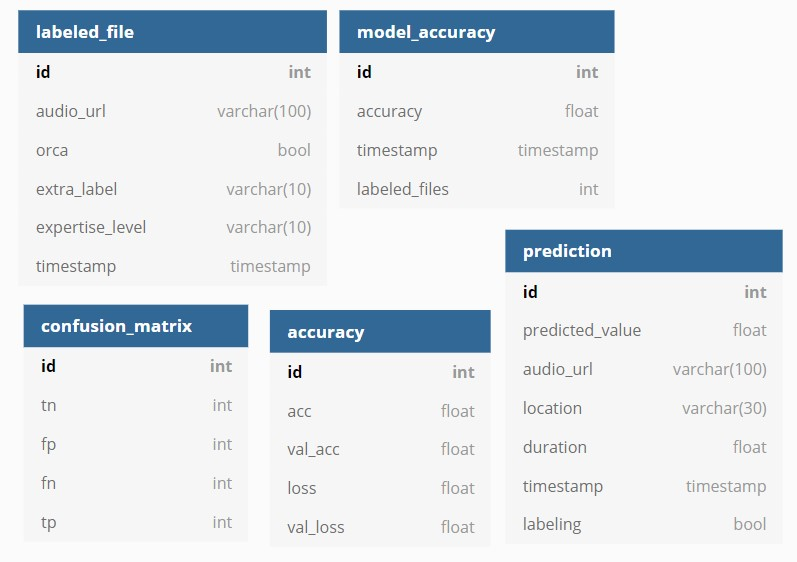
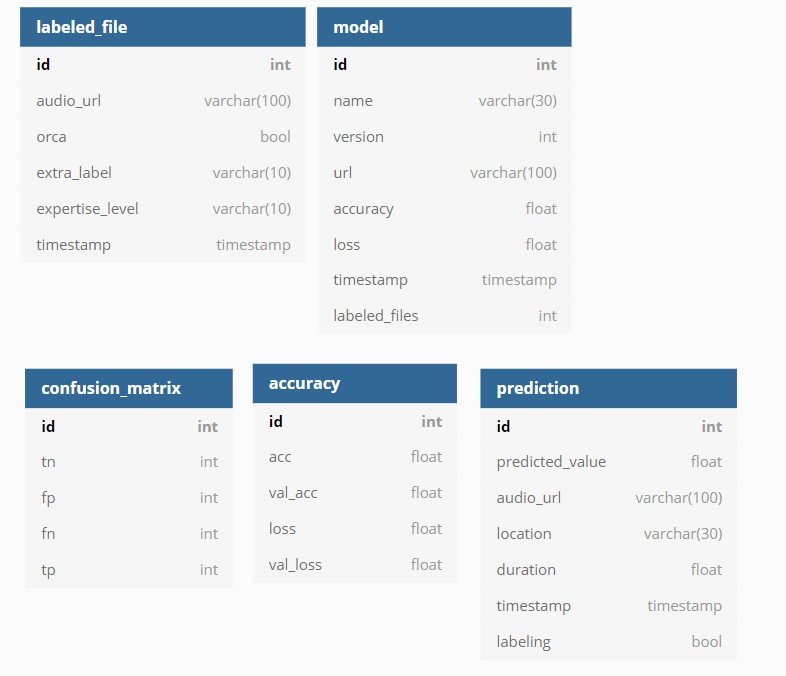
Use s3 without credentials

diff --git a/train_and_predict/train.py b/train_and_predict/train.py
@@ -21,7 +21,7 @@ def train(s3_model_path, s3_labeled_path, img_width, img_height, epochs):
 
     model = load_model(local_model_path)
     # Download data from s3 to `labeled` directory
-    subprocess.run(['aws', 's3', 'sync', s3_labeled_path, local_labeled_path])
+    subprocess.run(['aws', '--no-sign-request', 's3', 'sync', s3_labeled_path, local_labeled_path])
 
     train_data_path = os.path.join(local_labeled_path, 'train')
     validation_data_path = os.path.join(local_labeled_path, 'validation')
@@ -91,6 +91,6 @@ def train(s3_model_path, s3_labeled_path, img_width, img_height, epochs):
     model_loss, model_acc = model.evaluate(validation_generator)
 
     new_s3_model_path = f'{os.path.dirname(s3_model_path)}/{new_model_name}'
-    subprocess.run(['aws', 's3', 'cp', new_model_name, new_s3_model_path])
+    subprocess.run(['aws', '--no-sign-request', 's3', 'cp', new_model_name, new_s3_model_path])
 
     return acc, val_acc, loss, val_loss, cm, train_generator.n, model_acc, model_loss, new_s3_model_path

diff --git a/api/app/active_learning.py b/api/app/active_learning.py
@@ -90,11 +90,11 @@ def update_s3_dir(audio_url, orca, validation):
     validation_path = 'validation' if validation else 'train'
     filename = audio_url.split('/')[-1].split('.')[0]
     subprocess.run([
-        'aws', 's3', 'mv', f'{s3_unlabeled_path}spectrograms/{filename}.png',
+        'aws', '--no-sign-request', 's3', 'mv', f'{s3_unlabeled_path}spectrograms/{filename}.png',
         f'{s3_labeled_path}{validation_path}/{calls_path}/'
     ])
     subprocess.run([
-        'aws', 's3', 'mv', f'{s3_unlabeled_path}mp3/{filename}.mp3',
+        'aws', '--no-sign-request', 's3', 'mv', f'{s3_unlabeled_path}mp3/{filename}.mp3',
         f'{s3_labeled_path}mp3/{calls_path}/'
     ])
     return f'{s3_url}/mp3/{calls_path}/{filename}.mp3'

diff --git a/train_and_predict/predict.py b/train_and_predict/predict.py
@@ -14,12 +14,12 @@ def get_predictions_on_unlabeled(s3_model_path, s3_unlabeled_path, img_width,
 
     local_model_path = os.path.basename(s3_model_path)
     if not os.path.isfile(local_model_path):
-        subprocess.run(['aws', 's3', 'cp', s3_model_path, '.'])
+        subprocess.run(['aws', '--no-sign-request', 's3', 'cp', s3_model_path, '.'])
     model = load_model(local_model_path)
 
     # Download data from s3 to `unlabeled` directory
     subprocess.run([
-        'aws', 's3', 'sync', f'{s3_unlabeled_path}spectrograms/',
+        'aws', '--no-sign-request', 's3', 'sync', f'{s3_unlabeled_path}spectrograms/',
         local_unlabeled_path, '--delete'
     ])
 

diff --git a/api/app/routes.py b/api/app/routes.py
@@ -8,6 +8,11 @@ from .active_learning import update_s3_dir, train_and_predict, session
 import threading
 
 
+@app.route('/')
+def home():
+    return 'Active Learning API is running!'
+
+
 # Get the next 5 predictions with most uncertainty
 @app.route('/uncertainties', methods=['GET'])
 def get_uncertainties():

diff --git a/api/README.md b/api/README.md
@@ -12,8 +12,8 @@
 
 **labeled_file** table:  
 Label for an audio file made by a human annotator. All the labeled files then conform the labeled dataset used by the ML model.  
-**model_accuracy** table:  
-Stores the accuracy of the model after every training round and the number of files used for training.  
+**model** table:  
+Stores data about a model after every training round, as well as the number of files that were used to train it.  
 **confusion_matrix** table:  
 Stores the confusion matrix generated after a retraining using the validation dataset.  
 **accuracy** table:  
@@ -28,9 +28,9 @@ Stores the predicted value of an unlabeled file, alongside with more information
 -   `GET` [/statistics](#get-statistics)
 
 -   ### Get Uncertainties
-    | URL        | Method | Description                                                         |
-    | ---------- | ------ | ------------------------------------------------------------------- |
-    | /filenames | GET    | Get the next 5 audio files, where the ML model had most uncertainty |
+    | URL            | Method | Description                                                            |
+    | -------------- | ------ | ---------------------------------------------------------------------- |
+    | /uncertainties | GET    | Get the next 5 audio files, in which the ML model had most uncertainty |
 
 #### Success Response
 
@@ -83,20 +83,22 @@ label = {
 ```JSON
 {
     "labels": [{"filename": "5", "orca": true, "extraLabel":"K"}],
-    "expertiseLevel": "Beginner"
+    "expertiseLevel": "Beginner",
+    "unlabeled": []
 }
 ```
 
 #### Error Responses
 
-**Code:** `400 BAD REQUEST`  
+**Code:** `500 SERVER ERROR`  
 **Condition:** If fields are missing  
 **Example:**
 
 ```JSON
 {
     "labels": [{"filename": "5", "orca": true}],
-    "expertiseLevel": ""
+    "expertiseLevel": "",
+    "unlabeled": []
 }
 ```
 
@@ -112,9 +114,9 @@ headers: {
 
 -   ### Get Statistics
 
-| URL         | Method | Description                                                                                                                                                                            |
-| ----------- | ------ | -------------------------------------------------------------------------------------------------------------------------------------------------------------------------------------- |
-| /statistics | GET    | Get confusion matrix and list of accuracies of last training round of the ML model, as well as the total number of labeled files over time with the accuracy of the ML model over time |
+| URL         | Method | Description                                                                                                                                                                                 |
+| ----------- | ------ | ------------------------------------------------------------------------------------------------------------------------------------------------------------------------------------------- |
+| /statistics | GET    | Get confusion matrix, and list of losses and accuracies of last training round of the ML model, as well as the accuracies of the ML model vs the number of files used to train it over time |
 
 #### Success Response
 
@@ -146,13 +148,13 @@ headers: {
 
 # Getting Started
 
-This API requires a database and a ML endpoint to run, the easiest way to do that would be run the ML endpoint's docker container by following the [train_and_predict quick method](../train_and_predict/README.md#quick-method), and to start a docker postgres database with the following command: `docker run --name postgres -p 5432:5432 -e POSTGRES_DB=orcagsoc -e POSTGRES_PASSWORD=postgres -d postgres`.
+This API requires a database and a ML endpoint to run, the easiest way to do that would be run the ML endpoint's docker container by following the [train_and_predict quick method](../train_and_predict/README.md#quick-method), and to start a docker postgres database with the following command: `docker run --name postgres -p 5432:5432 -e POSTGRES_DB=orcagsoc -e POSTGRES_PASSWORD=<database-password> -d postgres`.
 
 ### Quick Method
 
 -   Make sure [Docker](https://www.docker.com/) is installed
 -   Run the following command with your AWS access keys:  
-    `docker run --rm --name activelearning_api -d -p 5000:5000 -e AWS_ACCESS_KEY_ID=[access key] -e AWS_SECRET_ACCESS_KEY=[secret access key] -e S3_LABELED_PATH=s3://orcagsoc/labeled_test/ -e S3_UNLABELED_PATH=s3://orcagsoc/unlabeled_test/ -e RETRAIN_TARGET=20 --link postgres:dbserver -e DATABASE_URL=postgresql+psycopg2://postgres:postgres@dbserver/orcagsoc -e ML_ENDPOINT_URL=http://host.docker.internal:5001 jdiegors/activelearning_api:latest`
+    `docker run --rm --name activelearning_api -d -p 5000:5000 -e S3_LABELED_PATH=s3://orcagsoc/labeled_test/ -e S3_UNLABELED_PATH=s3://orcagsoc/unlabeled_test/ -e RETRAIN_TARGET=20 -e S3_MODEL_PATH=s3://orcagsoc/models/srkw_cnn_0.h5 -e IMG_WIDTH=607 -e IMG_HEIGHT=617 -e EPOCHS=1 --link postgres:dbserver -e DATABASE_URL=postgresql+psycopg2://postgres:<database-password>@dbserver/orcagsoc -e ML_ENDPOINT_URL=http://host.docker.internal:5001 jdiegors/activelearning_api:latest`
 
 ### Flexible Method
 
@@ -162,11 +164,15 @@ This API requires a database and a ML endpoint to run, the easiest way to do tha
 -   Create a `.env` file with the following parameters:
 
     ```
-    DATABASE_URL=postgresql+psycopg2://postgres:postgres@localhost:5432/orcagsoc
+    DATABASE_URL=postgresql+psycopg2://postgres:<database-password>@localhost:5432/orcagsoc
     ML_ENDPOINT_URL=http://127.0.0.1:5001
     S3_LABELED_PATH=s3://orcagsoc/labeled_test/
     S3_UNLABELED_PATH=s3://orcagsoc/unlabeled_test/
+    S3_MODEL_PATH=s3://orcagsoc/models/srkw_cnn_0.h5
     RETRAIN_TARGET=20
+    IMG_WIDTH=607
+    IMG_HEIGHT=617
+    EPOCHS=1
     ```
 
 -   Run `flask db upgrade` to update the tables of the database
@@ -179,6 +185,5 @@ This API requires a database and a ML endpoint to run, the easiest way to do tha
 
 ### Deployment
 
--   Once the [Heroku CLI](https://devcenter.heroku.com/articles/heroku-cli) is installed, login to your Heroku account with `heroku login`
--   Then add a remote to your local repository with the `heroku git:remote -a orcagsoc` command
--   To deploy the app use the `git push heroku master` command from your local repository's master branch
+Follow the quick start method on your server of choice.  
+Otherwise, to push to a different docker container registry, create an account on https://hub.docker.com, login from the command line `docker login`, build the image with `docker build -t activelearning_api .` from within the project directory, rename it to `docker tag activelearning_api:latest <your-docker-registry-account>/activelearning_api:latest`, push it to the Docker registry `docker push <your-docker-registry-account>/activelearning_api:latest`. Now you can follow the quick start method.

diff --git a/train_and_predict/README.md b/train_and_predict/README.md
@@ -6,8 +6,6 @@
 
 # Available Endpoints
 
-All the paramaters are taken from a `.env` file.
-
 ### Train
 
 | URL                                   | Method | Description                                                                                                                                                |
@@ -25,8 +23,8 @@ All the paramaters are taken from a `.env` file.
 ### Quick Method
 
 -   Make sure [Docker](https://www.docker.com/) is installed
--   Run the following command with your AWS access keys:  
-    `docker run --rm --name activelearning_ml -d -p 5001:5001 -e S3_MODEL_PATH=s3://orcagsoc/models/srkw_cnn.h5 -e S3_LABELED_PATH=s3://orcagsoc/labeled_test/ -e S3_UNLABELED_PATH=s3://orcagsoc/unlabeled_test/ -e IMG_WIDTH=607 -e IMG_HEIGHT=617 -e EPOCHS=1 -e AWS_ACCESS_KEY_ID=[access key] -e AWS_SECRET_ACCESS_KEY=[secret access key] jdiegors/activelearning_ml:latest`
+-   Run:  
+    `docker run --rm --name activelearning_ml -d -p 5001:5001 jdiegors/activelearning_ml:latest`
 
 ### Flexible Method
 
@@ -35,22 +33,9 @@ All the paramaters are taken from a `.env` file.
 -   Create a virtual environment: `python -m venv venv`
 -   Activate the virtual environment: `source venv/bin/activate` or `venv\Scripts\activate` for windows
 -   Install the dependencies: `pip install -r requirements.txt`
--   Create a `.env` file with the following parameters:
-
-    ```
-    S3_MODEL_PATH=s3://orcagsoc/models/srkw_cnn.h5
-    S3_LABELED_PATH=s3://orcagsoc/labeled_test/
-    S3_UNLABELED_PATH=s3://orcagsoc/unlabeled_test/
-    IMG_WIDTH=607
-    IMG_HEIGHT=617
-    EPOCHS=1
-    AWS_ACCESS_KEY_ID=[access key]
-    AWS_SECRET_ACCESS_KEY=[secret access key]
-    ```
-
 -   Run `flask run` to start a development server in [http://localhost:5001](http://localhost:5001)
 
 ### Deployment
 
 Follow the quick start method on your server of choice.  
-Otherwise, to push to a different docker container registry, create an account on https://hub.docker.com, login from the command line `docker login`, build the image with `docker build -t activelearning_ml .` from within the project directory, rename it to `docker tag activelearning_ml:latest <your-docker-registry-account>/activelearning_ml:latest`, push it to the Docker registry `docker push <your-docker-registry-account>/activelearning_ml:latest`.. Now you can follow the quick start method.
+Otherwise, to push to a different docker container registry, create an account on https://hub.docker.com, login from the command line `docker login`, build the image with `docker build -t activelearning_ml .` from within the project directory, rename it to `docker tag activelearning_ml:latest <your-docker-registry-account>/activelearning_ml:latest`, push it to the Docker registry `docker push <your-docker-registry-account>/activelearning_ml:latest`. Now you can follow the quick start method.
